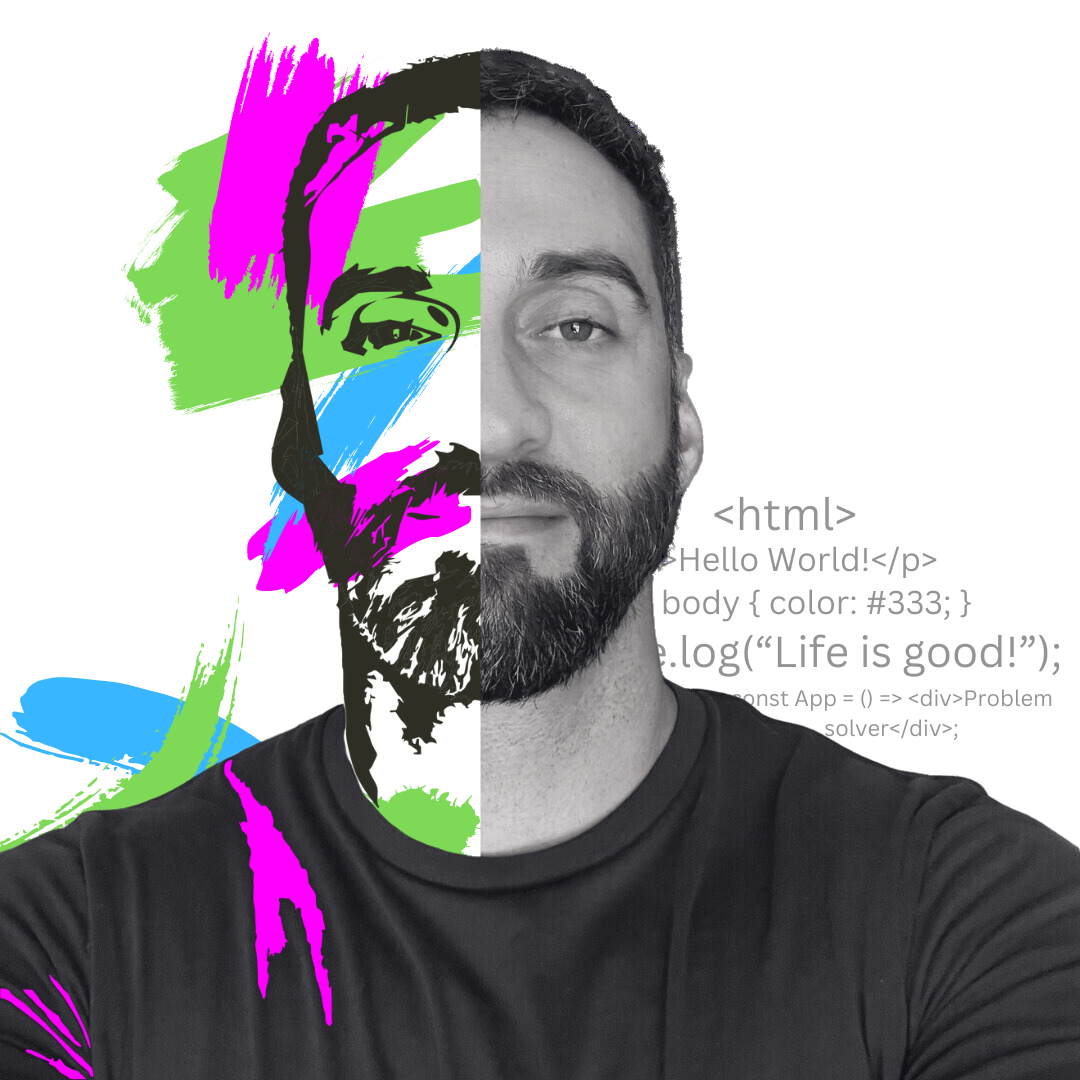
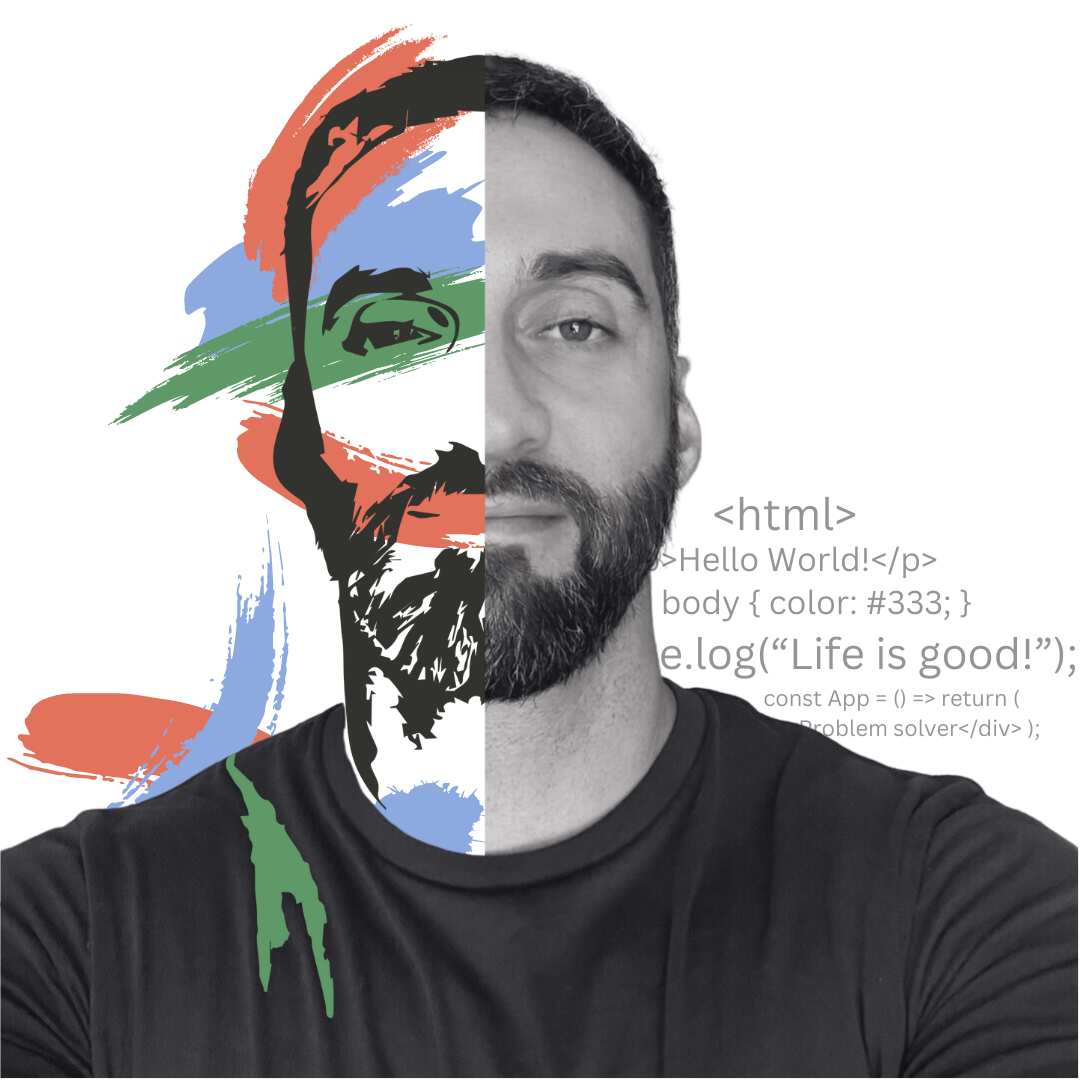
set basic structure for homepage and added styles to components

diff --git a/src/components/Navbar.js b/src/components/Navbar.js
@@ -1,22 +1,68 @@
-import React from 'react';
-import logo from '../assets/DS.png';
+import React, { useState, useEffect } from 'react';
+import { slide as Menu } from 'react-burger-menu';
+import logo from '../assets/DerekSutton.png';
+import '../App.css';
 
 const Navbar = () => {
+    const [menuOpen, setMenuOpen] = useState(false);
+    const [isMobile, setIsMobile] = useState(window.innerWidth < 768);
+
+    useEffect(() => {
+        const handleResize = () => {
+            setIsMobile(window.innerWidth < 768);
+        };
+
+        window.addEventListener("resize", handleResize);
+
+        return () => {
+            window.removeEventListener("resize", handleResize);
+        };
+    }, []);
+
+    const handleStateChange = (state) => {
+        setMenuOpen(state.isOpen);
+    };
+
+    const closeMenu = () => {
+        setMenuOpen(false);
+    };
+
+    const renderMobileMenu = () => {
+        return (
+            <Menu right isOpen={menuOpen} onStateChange={handleStateChange}>
+                <a onClick={closeMenu} className="menu-item" href="#home">Home</a>
+                <a onClick={closeMenu} className="menu-item" href="#about">About</a>
+                <a onClick={closeMenu} className="menu-item" href="#portfolio">Portfolio</a>
+                <a onClick={closeMenu} className="menu-item" href="#skills">Skills</a>
+                <a onClick={closeMenu} className="menu-item" href="#contact">Contact</a>
+                <a onClick={closeMenu} href="/path/to/your/cv.pdf" target="_blank" rel="noopener noreferrer" className="menu-item mx-6 px-4 py-2 brand-coral text-white font-bold text-lg hover:bg-gray-700 rounded-full">Download CV</a>
+            </Menu>
+        );
+    };
+
+    const renderDesktopMenu = () => {
+        return (
+            <>
+                <div className="flex gap-8">
+                    <a href="#home" className="font-bold text-lg hover:text-customCoral">Home</a>
+                    <a href="#about" className="font-bold text-lg hover:text-customCoral">About</a>
+                    <a href="#portfolio" className="font-bold text-lg hover:text-customCoral">Portfolio</a>
+                    <a href="#skills" className="font-bold text-lg hover:text-customCoral">Skills</a>
+                    <a href="#contact" className="font-bold text-lg hover:text-customCoral">Contact</a>
+                </div>
+                <div>
+                    <a href="/path/to/your/cv.pdf" target="_blank" rel="noopener noreferrer" className="mx-6 px-4 py-2 brand-coral text-white font-bold text-lg hover:bg-gray-700 rounded-full">Download CV</a>
+                </div>
+            </>
+        );
+    };
+
     return (
-        <nav className="flex items-center justify-between px-4 py-0 bg-black text-white">
+        <nav className="flex items-center justify-between px-8 py-0 bg-black text-white">
             <div className="logo">
-                <img src={logo} alt="Hero" className="h-28 w-28" />
+                <img src={logo} alt="Hero" className="h-36" />
             </div>
-            <div className="flex gap-8">
-                <a href="#home" className="font-bold text-lg hover:text-gray-400">Home</a>
-                <a href="#about" className="font-bold text-lg hover:text-gray-400">About</a>
-                <a href="#portfolio" className="font-bold text-lg hover:text-gray-400">Portfolio</a>
-                <a href="#skills" className="font-bold text-lg hover:text-gray-400">Skills</a>
-                <a href="#contact" className="font-bold text-lg hover:text-gray-400">Contact</a>
-            </div>
-            <div>
-                {/* Social icons */}
-            </div>
+            {isMobile ? renderMobileMenu() : renderDesktopMenu()}
         </nav>
     );
 };

diff --git a/src/components/Hero.js b/src/components/Hero.js
@@ -2,37 +2,38 @@ import React from 'react';
 import heroImage from '../assets/head-split.png';
 
 const Hero = () => {
+
     return (
       <div className="bg-white text-black min-h-screen flex flex-col md:flex-row items-center justify-center px-4">
         <div className="hidden md:flex md:flex-1 justify-center">
-          <div className="w-full md:w-auto md:max-w-md"> {/* This sets a max-width for the text container */}
+          <div className="w-full md:w-auto md:max-w-md">
             <h1 className="text-4xl font-bold text-center md:text-center">designer</h1>
-            <p className="text-lg text-center md:text-center py-4">UI/UX Designer with a passion for designing elegant user experiences.</p>
+            <p className="text-lg text-center md:text-center py-4">Visual Designer & Branding Expert, dedicated to crafting compelling brand identities and visual narratives.</p>
           </div>
         </div>
 
-      <img src={heroImage} alt="Headshot" className="w-full md:w-1/3 max-w-xs md:max-w-md lg:max-w-lg mb-8 md:mb-0 rounded-[25%]" />
+      <img src={heroImage} alt="Headshot" className="w-full md:w-1/2 max-w-sm md:max-w-lg lg:max-w-xl mt-0 mb-0 md:mb-0 rounded-[25%]" />
 
       <div className="hidden md:flex md:flex-1 justify-center">
-        <div className="w-full md:w-auto md:max-w-md"> {/* This sets a max-width for the text container */}
-          <h1 className="text-4xl font-bold text-center md:text-center">{"<developer/>"}</h1>
-          <p className="text-lg text-center md:text-center py-4">Full-Stack Developer focused on writing clean, efficient code.</p>
+        <div className="w-full md:w-auto md:max-w-md">
+          <h1 className="text-4xl font-bold text-center md:text-center">{"<developer>"}</h1>
+          <p className="text-lg text-center md:text-center py-4">Full-Stack Developer focused on clean, efficient code for high-performance software solutions.</p>
         </div>
       </div>
   
         {/* Mobile layout text, visible only on mobile */}
         <div className="md:hidden flex justify-between items-center w-full px-4">
           <div className="text-center">
-            <h1 className="text-4xl font-bold">designer</h1>
-            <p className="text-lg">UI/UX Designer with a passion for designing elegant user experiences.</p>
+            <h1 className="text-4xl pb-3 font-bold">designer</h1>
+            <p className="text-md">Visual Designer & Branding Expert, dedicated to crafting compelling brand identities and visual narratives.</p>
           </div>
           
           {/* This is the vertical line divider */}
           <div className="border-l-2 border-gray-800 h-32 self-center mx-2"></div>
   
           <div className="text-center">
-            <h1 className="text-4xl font-bold">developer</h1>
-            <p className="text-lg">Full-Stack Developer focused on writing clean, efficient code.</p>
+            <h1 className="text-4xl pl-2 pb-3 font-bold">{"<developer>"}</h1>
+            <p className="text-md">Full-Stack Developer focused on clean, efficient code for high-performance software solutions.</p>
           </div>
         </div>
       </div>

diff --git a/src/App.css b/src/App.css
@@ -1,38 +1,66 @@
+:root {
+  --coral: #E2725B;
+  --black: #000000;
+}
+
 .App {
   text-align: center;
 }
 
-.App-logo {
-  height: 40vmin;
-  pointer-events: none;
+.brand-coral {
+  background-color: var(--coral);
 }
 
-@media (prefers-reduced-motion: no-preference) {
-  .App-logo {
-    animation: App-logo-spin infinite 20s linear;
+.bm-burger-button {
+  display: none;
+}
+
+.bm-burger-bars {
+  background: var(--pink);
+}
+
+@media (max-width: 768px) {
+  
+  .bm-burger-button {
+    display: block;
+    position: fixed;
+    width: 36px;
+    height: 30px;
+    right: 20px;
+    top: 20px;
+    z-index: 1000;
+  }
+
+  .bm-menu-wrap {
+    position: fixed;
+    height: 100%;
+  }
+
+  .bm-item {
+    display: block;
+    text-decoration: none;
+    margin-bottom: 10px;
+    color: #d1d1d1;
+    transition: color 0.2s;
+  }
+
+  .bm-item:hover {
+    color: white;
+  }
+
+  .desktop-menu {
+    display: none;
   }
 }
 
-.App-header {
-  background-color: #282c34;
-  min-height: 100vh;
-  display: flex;
-  flex-direction: column;
-  align-items: center;
-  justify-content: center;
-  font-size: calc(10px + 2vmin);
-  color: white;
-}
+@media (min-width: 769px) {
 
-.App-link {
-  color: #61dafb;
-}
-
-@keyframes App-logo-spin {
-  from {
-    transform: rotate(0deg);
+  .bm-burger-button {
+    display: none;
   }
-  to {
-    transform: rotate(360deg);
+
+  .desktop-menu {
+    display: flex;
+    gap: 8px;
   }
 }

diff --git a/tailwind.config.js b/tailwind.config.js
@@ -4,7 +4,11 @@ module.exports = {
     "./src/**/*.{js,jsx,ts,tsx}",
   ],
   theme: {
-    extend: {},
+    extend: {
+      colors: {
+        customCoral: '#E2725B',
+      },
+    },
   },
   plugins: [],
 }
